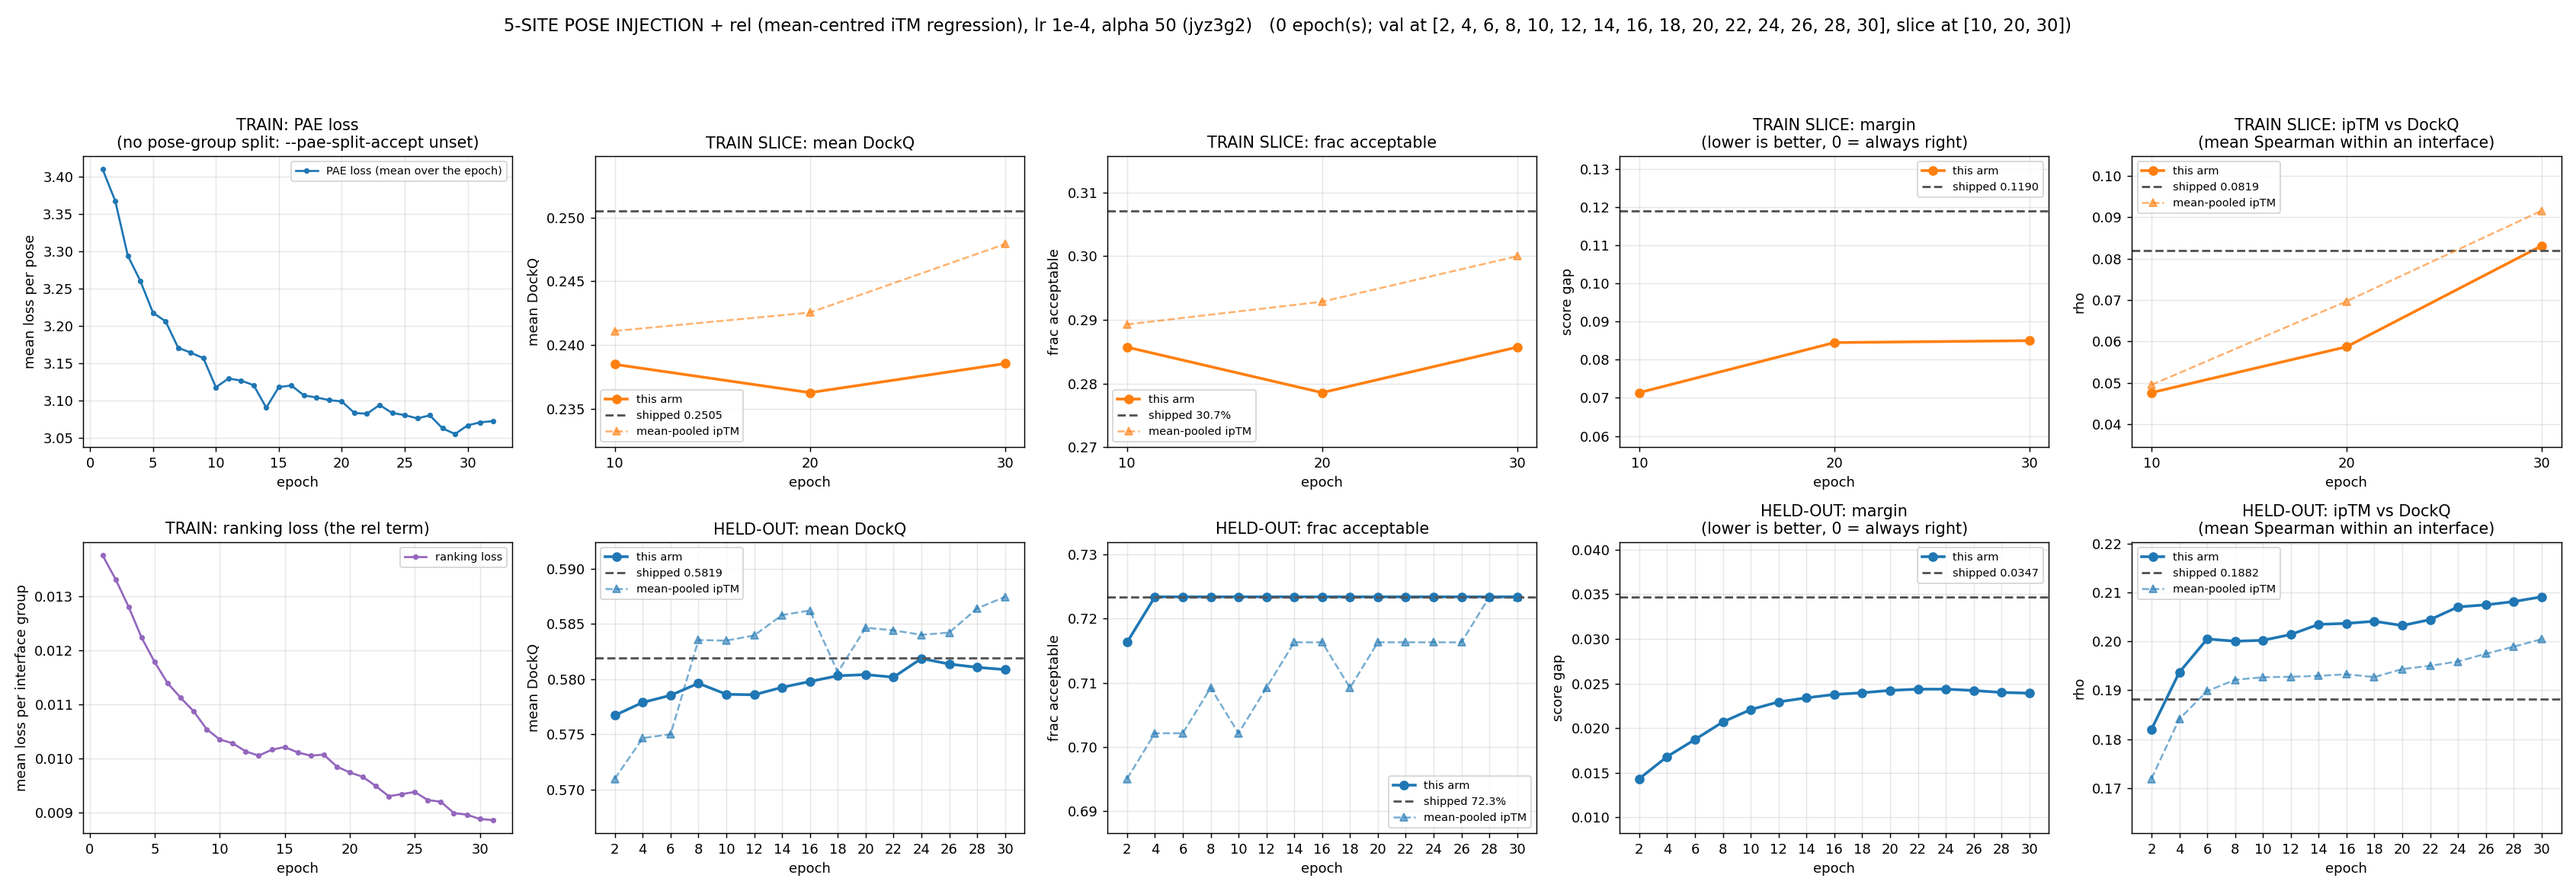
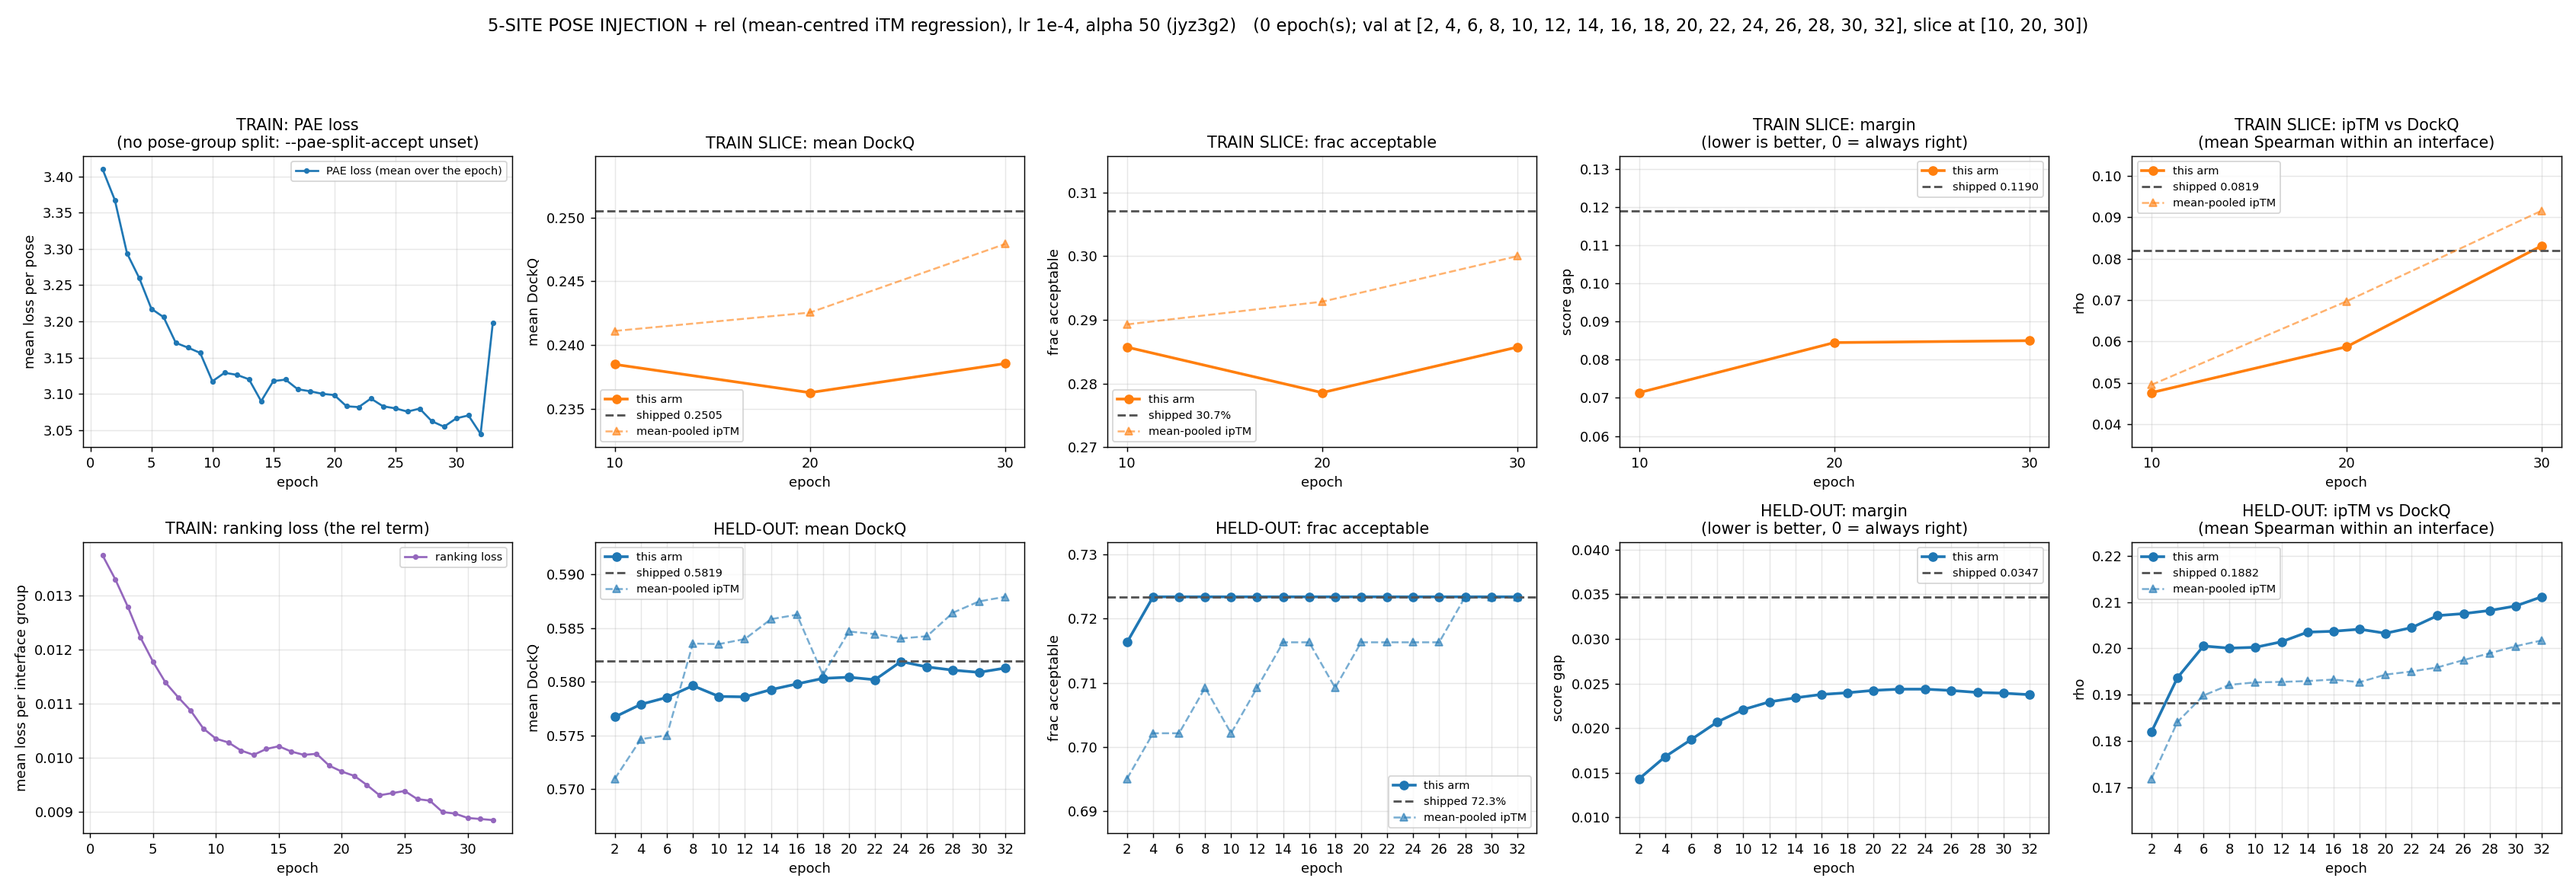
push results on every eval pass, and stop plotting the epoch in flight
THE "BIG PAE INCREASE" WAS A PARTIAL EPOCH. plain_loss averaged pae_loss over
whatever steps had run, so epoch 33 read 3.1722 against epoch 32's 3.0448 -- a
+0.127 jump, three times any real epoch-to-epoch move -- off 4,560 of 11,475
steps of an unfinished epoch. It now keeps only epochs with the modal step
count. Every completed epoch is still descending, 3.4097 -> 3.0448, the largest
genuine uptick being +0.028 at epoch 15.

export_pose5_results.py replaces the inline snippet I had been retyping each
time: one row per completed pass, both ipTM poolings, and the margin beside the
score spread it is measured in, since margin is in ipTM units and inflates with
the head's score scale whether or not the ranking changed.

epoch_pulse.sh now commits and pushes the CSV and the figure WHENEVER A VAL OR
SLICE PASS LANDS -- every 2 epochs for val, every 10 for slice -- so the review
copy is never stale. Deliberately not on a bare new epoch: that moves the loss
curve but not the results table, and a commit per epoch would bury the ones that
matter. A failed push says so rather than passing silently.

Claude-Session: https://claude.ai/code/session_014t55QPNWnMkjqFi95YVBtG

diff --git a/extra_training/run_logging/export_pose5_results.py b/extra_training/run_logging/export_pose5_results.py
@@ -1,0 +1,73 @@
+#!/usr/bin/env python
+"""The live arm's eval passes as a CSV, for review outside this repo.
+
+ONE ROW PER COMPLETED PASS, val and slice, carrying BOTH ipTM poolings and -- the point of the
+file -- the margin beside the score spread it is measured in. Margin is in ipTM units, so it
+inflates or deflates with the head's score scale whether or not the ranking changed; the
+margin_over_spread column is what makes the two comparable across epochs and across arms.
+"""
+import collections
+import csv
+import glob
+import os
+import re
+import statistics as st
+import sys
+
+sys.path.insert(0, os.path.dirname(os.path.abspath(__file__)))
+import plot_fullset as P                                            # noqa: E402
+
+COLS = ["side", "epoch", "q_max", "top1_max", "rho_max", "q_mean", "top1_mean", "rho_mean",
+        "margin", "score_spread", "margin_over_spread",
+        "shipped_q", "shipped_top1", "shipped_rho", "shipped_margin"]
+
+
+def _complete(pat):
+    """epoch -> dir, for passes with all three shard markers. A dir read between a shard's rows
+    and its marker is short by a third of the pool, which moves the mean without looking wrong."""
+    w = {}
+    for d in glob.glob(pat):
+        m = re.search(r"ep(\d+)$", d)
+        if m and len(glob.glob(os.path.join(d, "rows_*.csv.meta.json"))) == 3:
+            w[int(m.group(1))] = d
+    return w
+
+
+def _spread(d):
+    by = collections.defaultdict(list)
+    for f in glob.glob(os.path.join(d, "rows_*.csv")):
+        for r in csv.DictReader(open(f)):
+            try:
+                by[r["iface"]].append(float(r["iptm"]))
+            except (TypeError, ValueError, KeyError):
+                pass
+    return st.median([max(v) - min(v) for v in by.values()]) if by else float("nan")
+
+
+def main():
+    rid = sys.argv[1] if len(sys.argv) > 1 else open("training/runs/pose5_arm_rid").read().strip()
+    out = sys.argv[2] if len(sys.argv) > 2 else "docs/pose5_results/jyz3g2_val_slice.csv"
+    sides = (("val", f"training/runs/{rid}/valfull83_eval_shards_ep*"),
+             ("slice", f"training/runs/{rid}/slice280_eval_shards_ep*"))
+    os.makedirs(os.path.dirname(out) or ".", exist_ok=True)
+    rows, seen = [], {}
+    for side, pat in sides:
+        dirs = _complete(pat)
+        pts = P.score_points(dirs)
+        seen[side] = sorted(pts)
+        for e in sorted(pts):
+            d, sp = pts[e], _spread(dirs[e])
+            rows.append([side, e, f"{d['q']:.4f}", f"{d['top1']:.4f}", f"{d['rho']:.4f}",
+                         f"{d['q_mean']:.4f}", f"{d['top1_mean']:.4f}", f"{d['rho_mean']:.4f}",
+                         f"{d['margin']:.4f}", f"{sp:.4f}", f"{d['margin'] / sp:.4f}",
+                         f"{d['s_q']:.4f}", f"{d['s_top1']:.4f}", f"{d['s_rho']:.4f}",
+                         f"{d['s_margin']:.4f}"])
+    with open(out, "w", newline="") as fh:
+        w = csv.writer(fh)
+        w.writerow(COLS)
+        w.writerows(rows)
+    print(f"wrote {out}: {len(rows)} row(s); val {seen['val']}, slice {seen['slice']}")
+
+
+if __name__ == "__main__":
+    main()

diff --git a/extra_training/run_logging/plot_fullset.py b/extra_training/run_logging/plot_fullset.py
@@ -310,7 +310,15 @@ def plain_loss(segs):
                 continue
             if v == v:
                 acc[e].append(v)
+        # DROP THE EPOCH STILL IN FLIGHT. The mean over a partial epoch is taken over whichever
+        # steps have run so far, which is not the same population as a whole epoch -- the live arm
+        # showed a +0.127 "jump" that was 4,560 of 11,475 steps of an unfinished epoch, three
+        # times any real epoch-to-epoch move. Keep only epochs with the modal step count.
+        full = max(collections.Counter(len(v) for v in acc.values()).items(),
+                   key=lambda kv: kv[1])[0] if acc else 0
         for e, v in acc.items():
+            if len(v) < full:
+                continue
             out.setdefault(e, [float("nan"), float("nan")])[1] = sum(v) / len(v)
     return {e: tuple(v) for e, v in out.items()}
 
